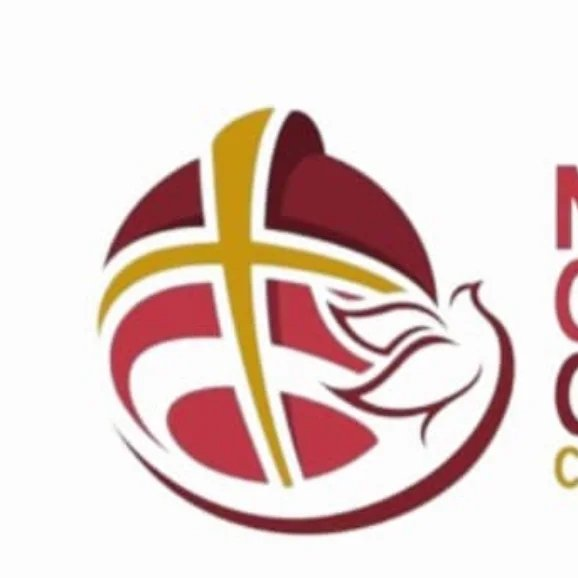
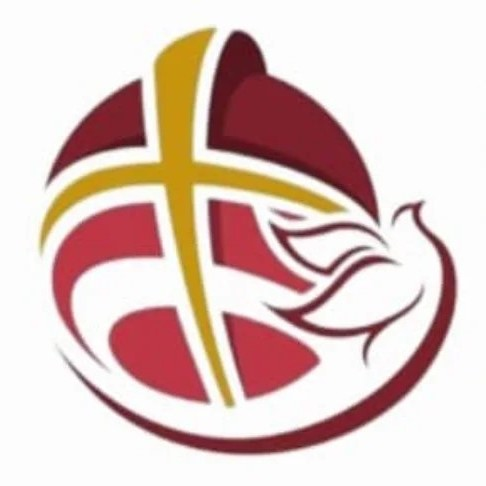
added

diff --git a/index.html b/index.html
@@ -41,10 +41,7 @@
                     <a href="/">
                         <div class="flex items-center gap-3 text-[#181611] dark:text-white">
                             <div class="size-8 text-primary">
-                                <svg fill="none" viewBox="0 0 48 48" xmlns="http://www.w3.org/2000/svg">
-                                    <path d="M4 4H17.3334V17.3334H30.6666V30.6666H44V44H4V4Z" fill="currentColor">
-                                    </path>
-                                </svg>
+                                <img src="/images/icon.jpg" alt="">
                             </div>
                             <h2 class="text-xl font-bold">NGGC</h2>
                         </div>
@@ -340,8 +337,7 @@
                     <div class="flex md:grid md:grid-cols-3 gap-6 overflow-x-auto pb-4 snap-x snap-mandatory">
 
                         <!-- Worship Team -->
-                        <div class="min-w-[260px] bg-white rounded-xl shadow-md overflow-hidden snap-start 
-            transform transition duration-300 hover:scale-[1.03] hover:shadow-xl">
+                        <div class="min-w-[260px] bg-white rounded-xl shadow-md overflow-hidden snap-start transform transition duration-300 hover:scale-[1.03] hover:shadow-xl">
                             <img src="https://tse4.mm.bing.net/th/id/OIP.okjl_frA86zKdM1CcN-BywHaE7?cb=ucfimg2&ucfimg=1&rs=1&pid=ImgDetMain&o=7&rm=3"
                                 class="h-40 w-full object-cover" alt="Worship Team">
                             <div class="p-6">
@@ -351,8 +347,7 @@
                         </div>
 
                         <!-- Media Team -->
-                        <div class="min-w-[260px] bg-white rounded-xl shadow-md overflow-hidden snap-start 
-            transform transition duration-300 hover:scale-[1.03] hover:shadow-xl">
+                        <div class="min-w-[260px] bg-white rounded-xl shadow-md overflow-hidden snap-start transform transition duration-300 hover:scale-[1.03] hover:shadow-xl">
                             <img src="https://tse4.mm.bing.net/th/id/OIP.bCrfIK2HrXKdXMcEOotRXwHaEK?cb=ucfimg2&pid=ImgDet&ucfimg=1&w=184&h=103&c=7&dpr=1.3&o=7&rm=3"
                                 class="h-40 w-full object-cover" alt="Media Team">
                             <div class="p-6">
@@ -362,8 +357,7 @@
                         </div>
 
                         <!-- Protocol Team -->
-                        <div class="min-w-[260px] bg-white rounded-xl shadow-md overflow-hidden snap-start 
-            transform transition duration-300 hover:scale-[1.03] hover:shadow-xl">
+                        <div class="min-w-[260px] bg-white rounded-xl shadow-md overflow-hidden snap-start transform transition duration-300 hover:scale-[1.03] hover:shadow-xl">
                             <img src="https://th.bing.com/th/id/OIP.wQIbmmboEmBwzuKky6MrgQHaHa?w=162&h=180&c=7&r=0&o=7&cb=ucfimg2&dpr=1.3&pid=1.7&rm=3&ucfimg=1"
                                 class="h-40 w-full object-cover" alt="Protocol Team">
                             <div class="p-6">
@@ -374,8 +368,7 @@
                         </div>
 
                         <!-- Usher Team -->
-                        <div class="min-w-[260px] bg-white rounded-xl shadow-md overflow-hidden snap-start 
-            transform transition duration-300 hover:scale-[1.03] hover:shadow-xl">
+                        <div class="min-w-[260px] bg-white rounded-xl shadow-md overflow-hidden snap-start transform transition duration-300 hover:scale-[1.03] hover:shadow-xl">
                             <img src="https://th.bing.com/th/id/R.a3b9f0341aa4bf1cbba790e7f2b0e89a?rik=foVRbkfT6KdoPw&pid=ImgRaw&r=0"
                                 class="h-40 w-full object-cover" alt="Usher Team">
                             <div class="p-6">
@@ -386,8 +379,7 @@
                         </div>
 
                         <!-- Children Teacher Team -->
-                        <div class="min-w-[260px] bg-white rounded-xl shadow-md overflow-hidden snap-start 
-            transform transition duration-300 hover:scale-[1.03] hover:shadow-xl">
+                        <div class="min-w-[260px] bg-white rounded-xl shadow-md overflow-hidden snap-start transform transition duration-300 hover:scale-[1.03] hover:shadow-xl">
                             <img src="https://th.bing.com/th/id/R.0b70782797a0586a2c5956b344cf3361?rik=MtZkelrjDttDgA&riu=http%3a%2f%2fimages.clipartpanda.com%2fkids-church-clip-art-childrens-church.jpg&ehk=odsigP6Ah2bIMEGWALW2B2AEBHcjkMwNCwDd6E9c8kc%3d&risl=&pid=ImgRaw&r=0"
                                 class="h-40 w-full object-cover" alt="Children Team">
                             <div class="p-6">
@@ -400,10 +392,6 @@
 
                 </div>
             </section>
-
-
-
-
             <!-- LATEST SERMON-->
             <!-- <section class="py-16 md:py-24 bg-white dark:bg-background-dark/50" id="sermons">
                 <div class="max-w-7xl mx-auto px-4 sm:px-6 lg:px-8">
